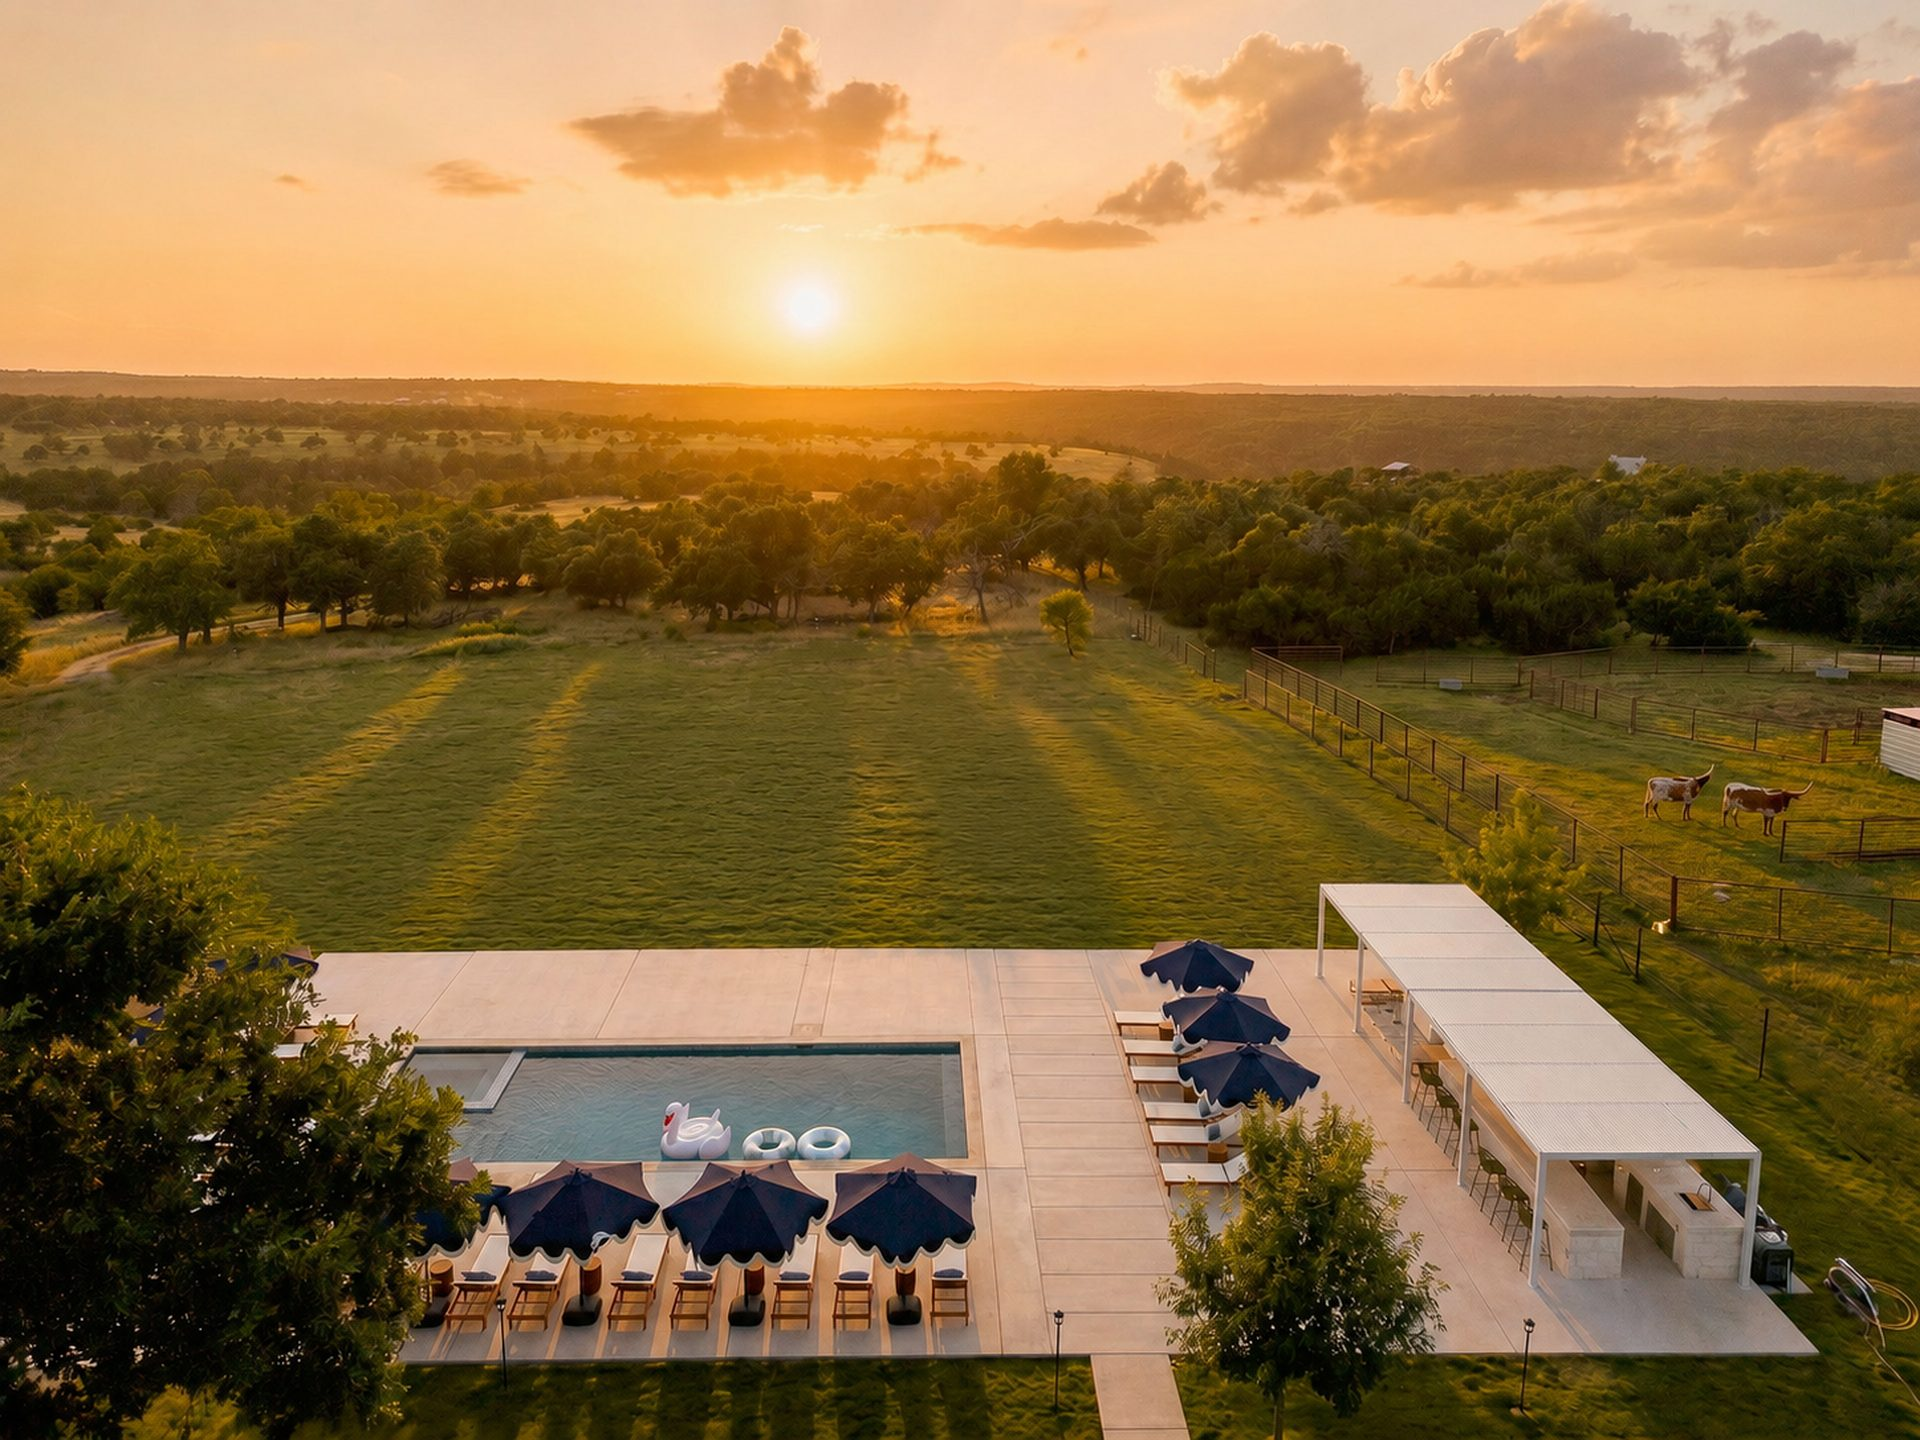
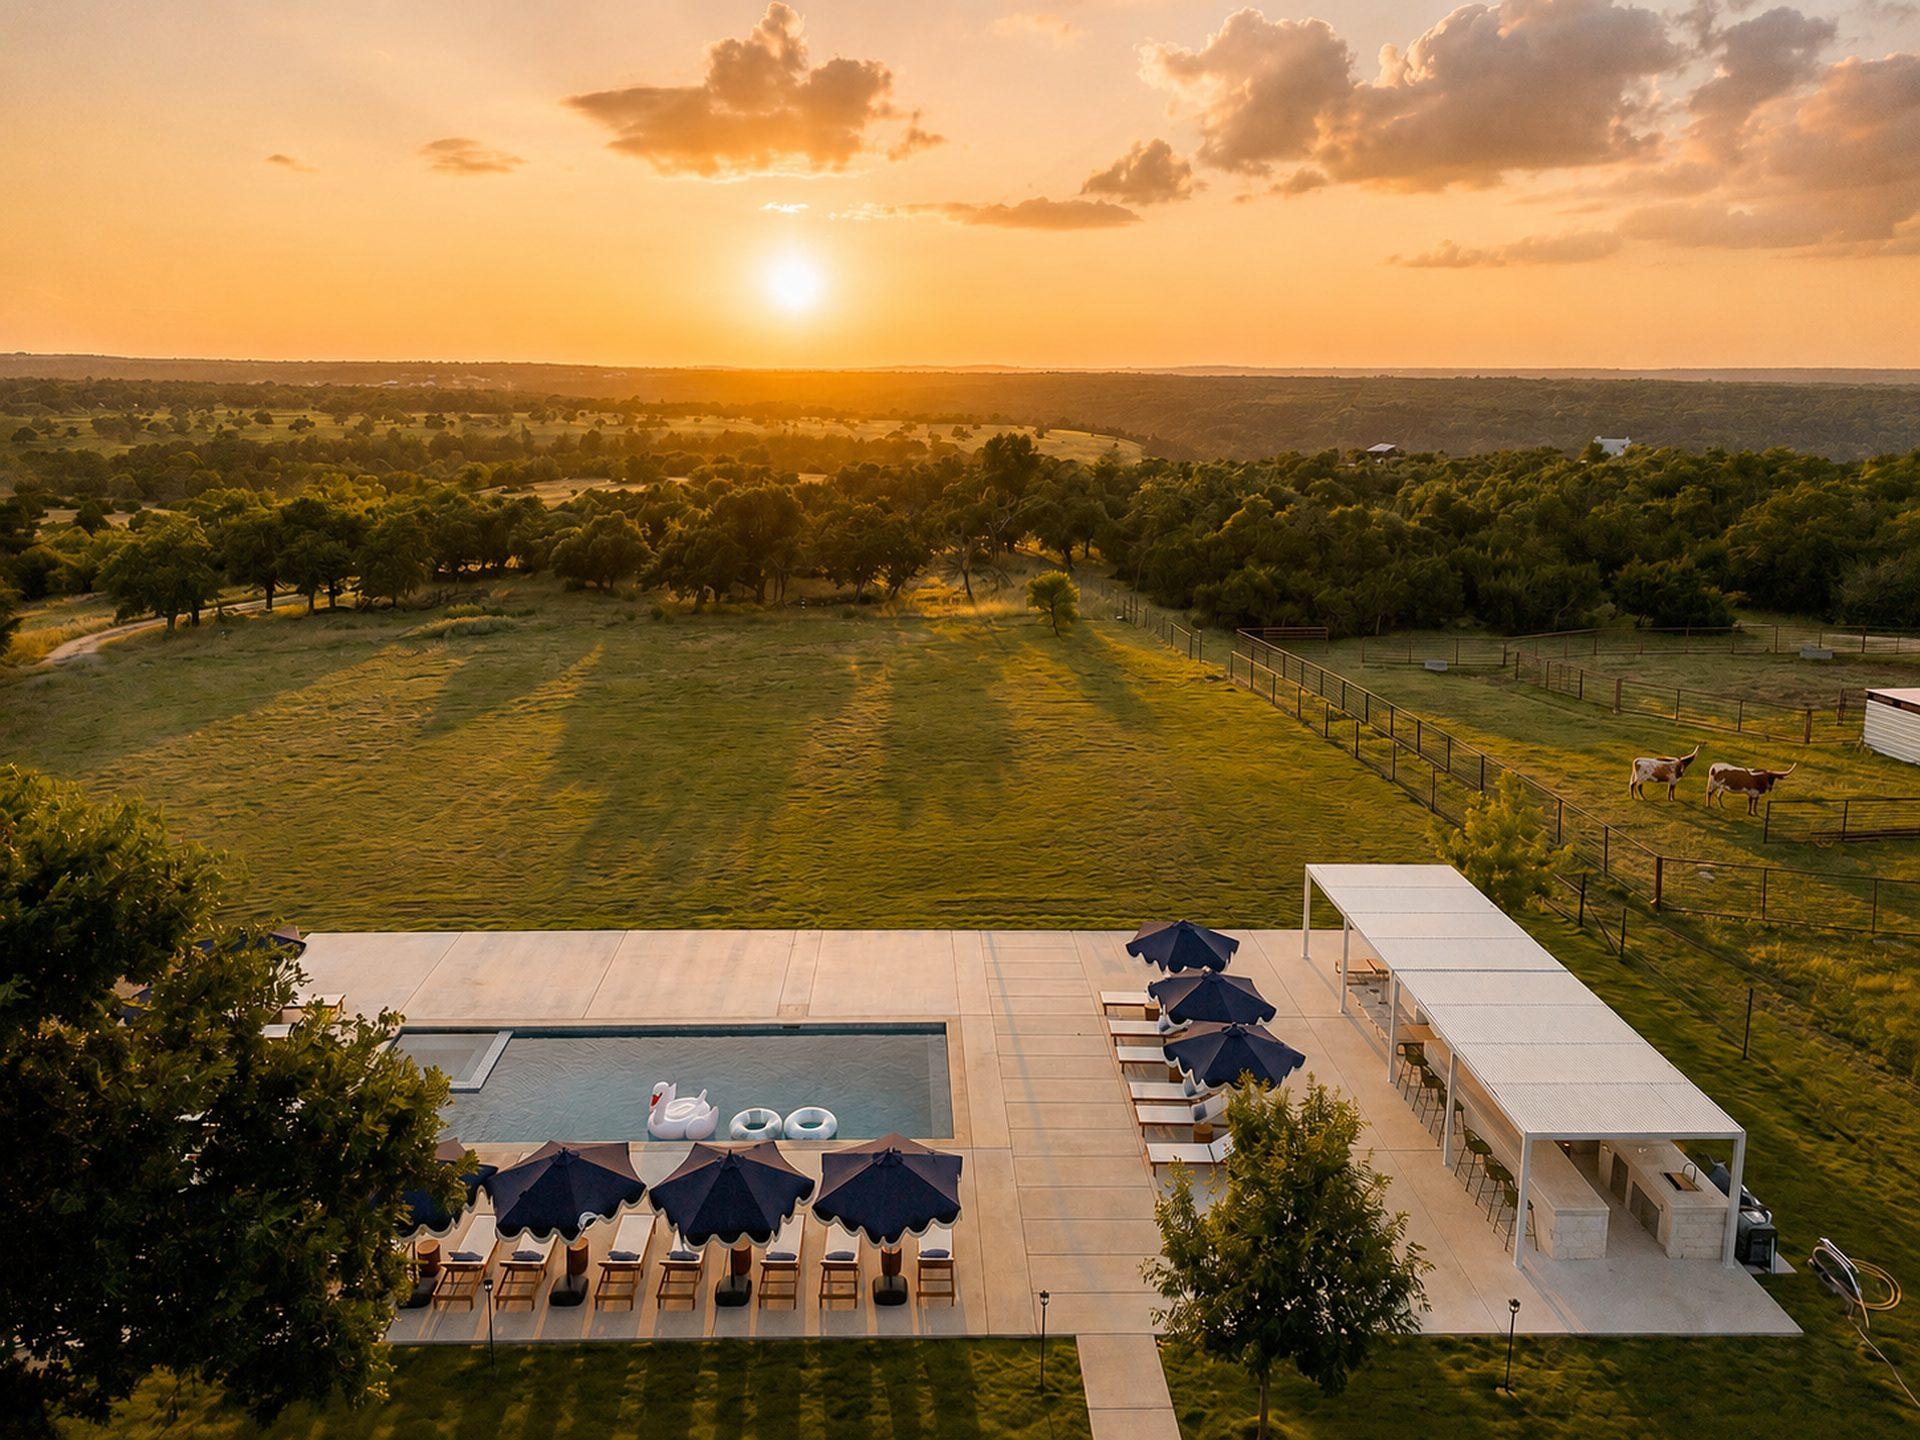
Refresh hero to revised Jul 17 upload (both layers)
Hunter replaced the hero bytes at the same GHL media id 6a5a83069c9b37b5fda1bba4;
the leadconnector proxy caches by url, so gallery.js _HB gets a ?v=20260717
cache-bust to force a fresh proxy fetch (transformer f_webp/q_80/r_1920 and
backgroundPosition center 55% unchanged). hero.jpg regenerated from the new
bytes at 1920 wide, jpeg q82, 437 KB, filename unchanged for schema/og.

diff --git a/gallery.js b/gallery.js
@@ -296,7 +296,7 @@
   // hero: real drone shot from GHL Media Storage (Website Hero folder, first image)
   var _HB=document.querySelector('.hero-bg');
   if(_HB){
-    _HB.style.backgroundImage="url('https://images.leadconnectorhq.com/image/f_webp/q_80/r_1920/u_https://assets.cdn.filesafe.space/NOyap67cAaEsqRNqR2ld/media/6a5a83069c9b37b5fda1bba4.png')";
+    _HB.style.backgroundImage="url('https://images.leadconnectorhq.com/image/f_webp/q_80/r_1920/u_https://assets.cdn.filesafe.space/NOyap67cAaEsqRNqR2ld/media/6a5a83069c9b37b5fda1bba4.png?v=20260717')";
     _HB.style.backgroundPosition='center 55%';
   }
 